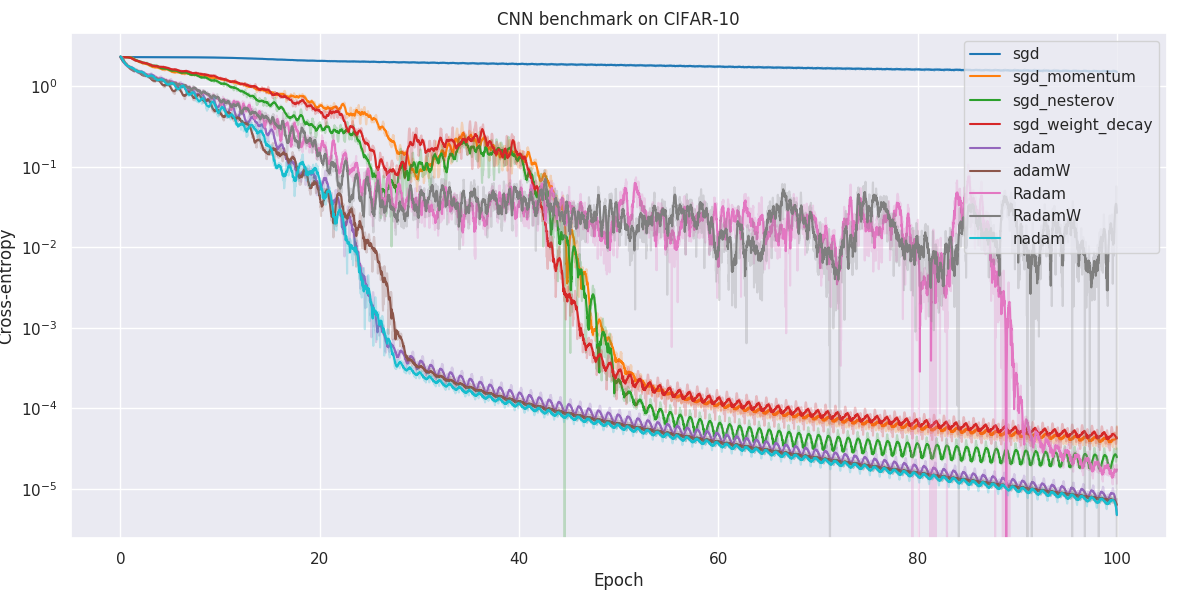
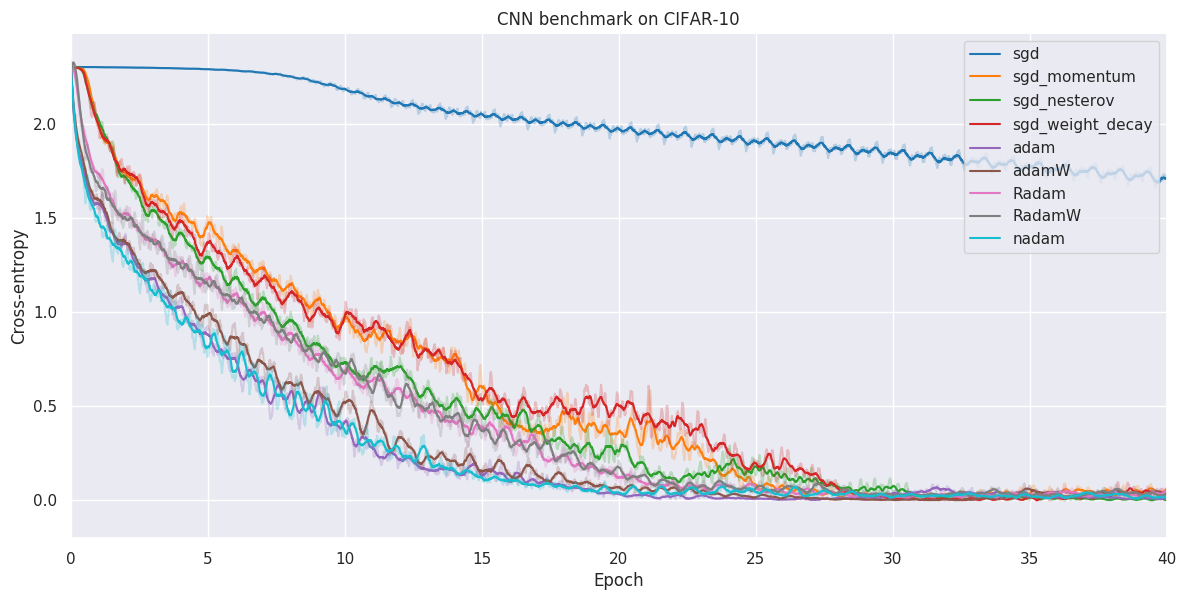
updated plot

diff --git a/misc.py b/misc.py
@@ -148,21 +148,24 @@ def plot_loss(losses, val_losses, num_epochs):
 	plt.clf()
 
 
-def plot_losses(losses, val_losses, labels, num_epochs, title, plot_val=False):
+def plot_losses(losses, val_losses, labels, num_epochs, title, plot_val=False, yscale_log=False, max_epochs=None):
 	sns.set(style='darkgrid')
 	plt.figure(figsize=(12, 6))
 	colors = ['tab:blue', 'tab:orange', 'tab:green', 'tab:red', 'tab:purple', 'tab:brown', 'tab:pink', 'tab:gray', 'tab:cyan', 'tab:olive']
 
 	for i in range(len(losses)):
-		plt.plot(np.linspace(0, num_epochs, num=len(losses[i])), smooth(losses[i].losses, 61), label=labels[i], alpha=1, c=colors[i])
+		plt.plot(np.linspace(0, num_epochs, num=len(losses[i])), smooth(losses[i].losses, 81), label=labels[i], alpha=1, c=colors[i])
 		plt.plot(np.linspace(0, num_epochs, num=len(losses[i])), smooth(losses[i].losses, 21), alpha=0.25, c=colors[i])
 		if plot_val:
-			plt.plot(np.linspace(0, num_epochs, num=len(val_losses[i])), smooth(val_losses[i].losses, 61), alpha=1, linestyle='--', c=colors[i])
+			plt.plot(np.linspace(0, num_epochs, num=len(val_losses[i])), smooth(val_losses[i].losses, 81), alpha=1, linestyle='--', c=colors[i])
 
 	plt.tight_layout(pad=2)
 	plt.xlabel('Epoch')
 	plt.ylabel('Cross-entropy')
-	plt.yscale('log')
+	if yscale_log:
+		plt.yscale('log')
+	if max_epochs is not None:
+		plt.xlim(0, max_epochs)
 	plt.title('CNN benchmark on CIFAR-10' if title == 'cifar' else 'MLP benchmark on MNIST')
 	plt.legend(loc='upper right')
 	plt.savefig(f'loss_{title}.png')

diff --git a/main.py b/main.py
@@ -101,4 +101,13 @@ if __name__ == '__main__':
 
 	if not torch.cuda.is_available():
 		assert len(opt_losses) == len(opt_val_losses)
-		misc.plot_losses(opt_losses, opt_val_losses, labels=opt_labels, num_epochs=args.num_epochs, title=args.dataset, plot_val=False)
+		misc.plot_losses(
+			losses=opt_losses,
+			val_losses=opt_val_losses,
+			labels=opt_labels,
+			num_epochs=args.num_epochs,
+			title=args.dataset,
+			plot_val=False,
+			yscale_log=False,
+			max_epochs=40
+		)
